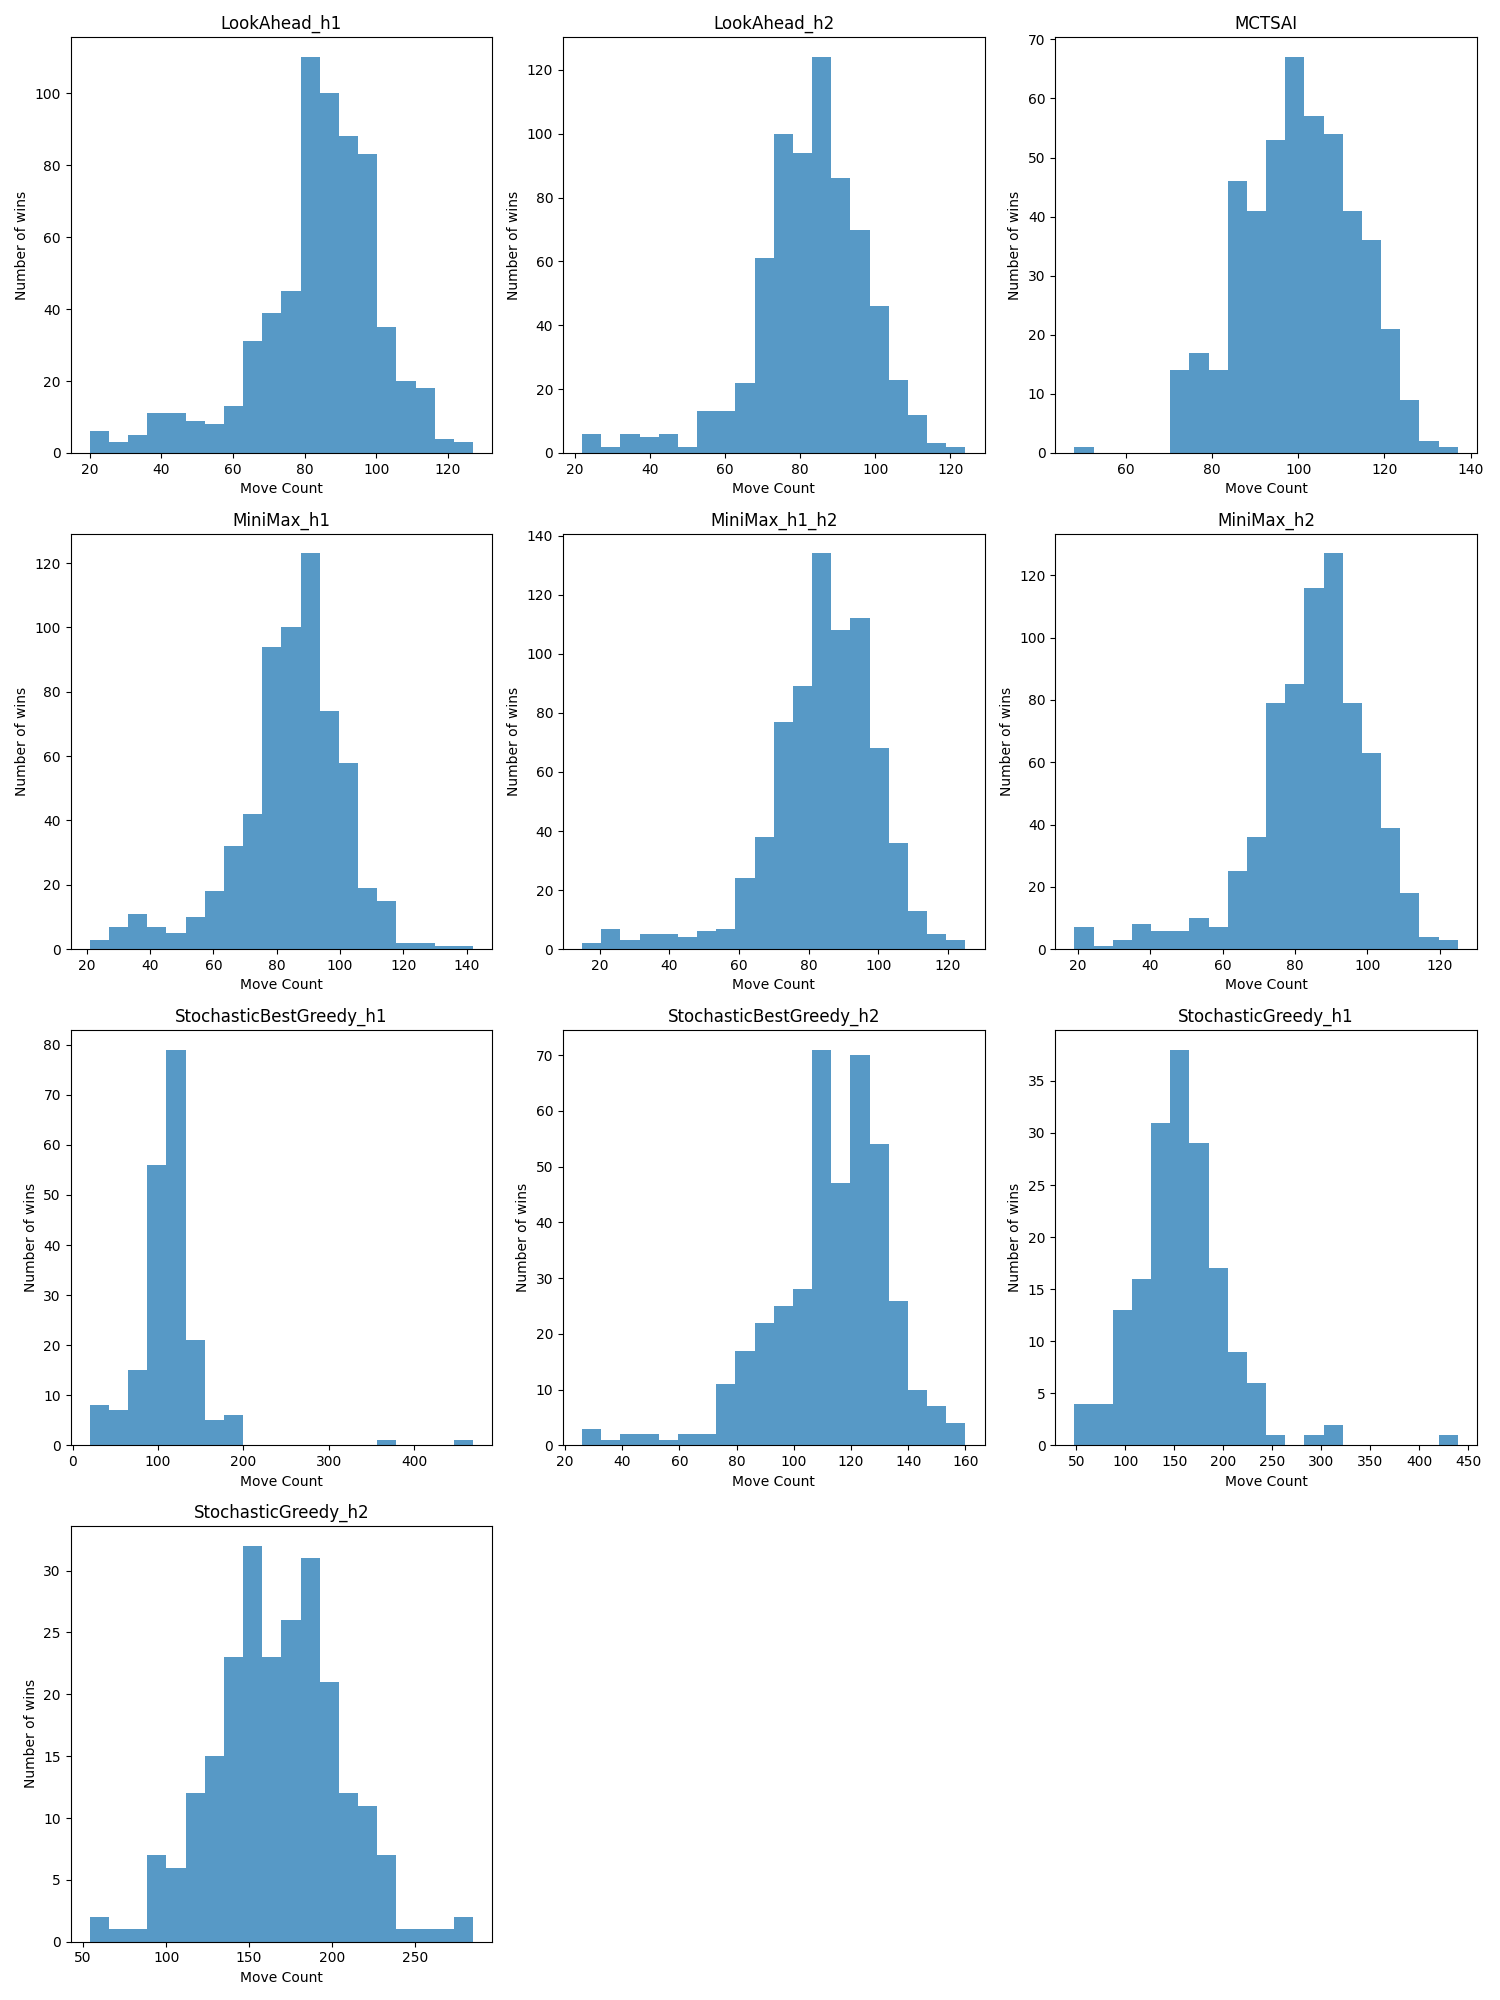
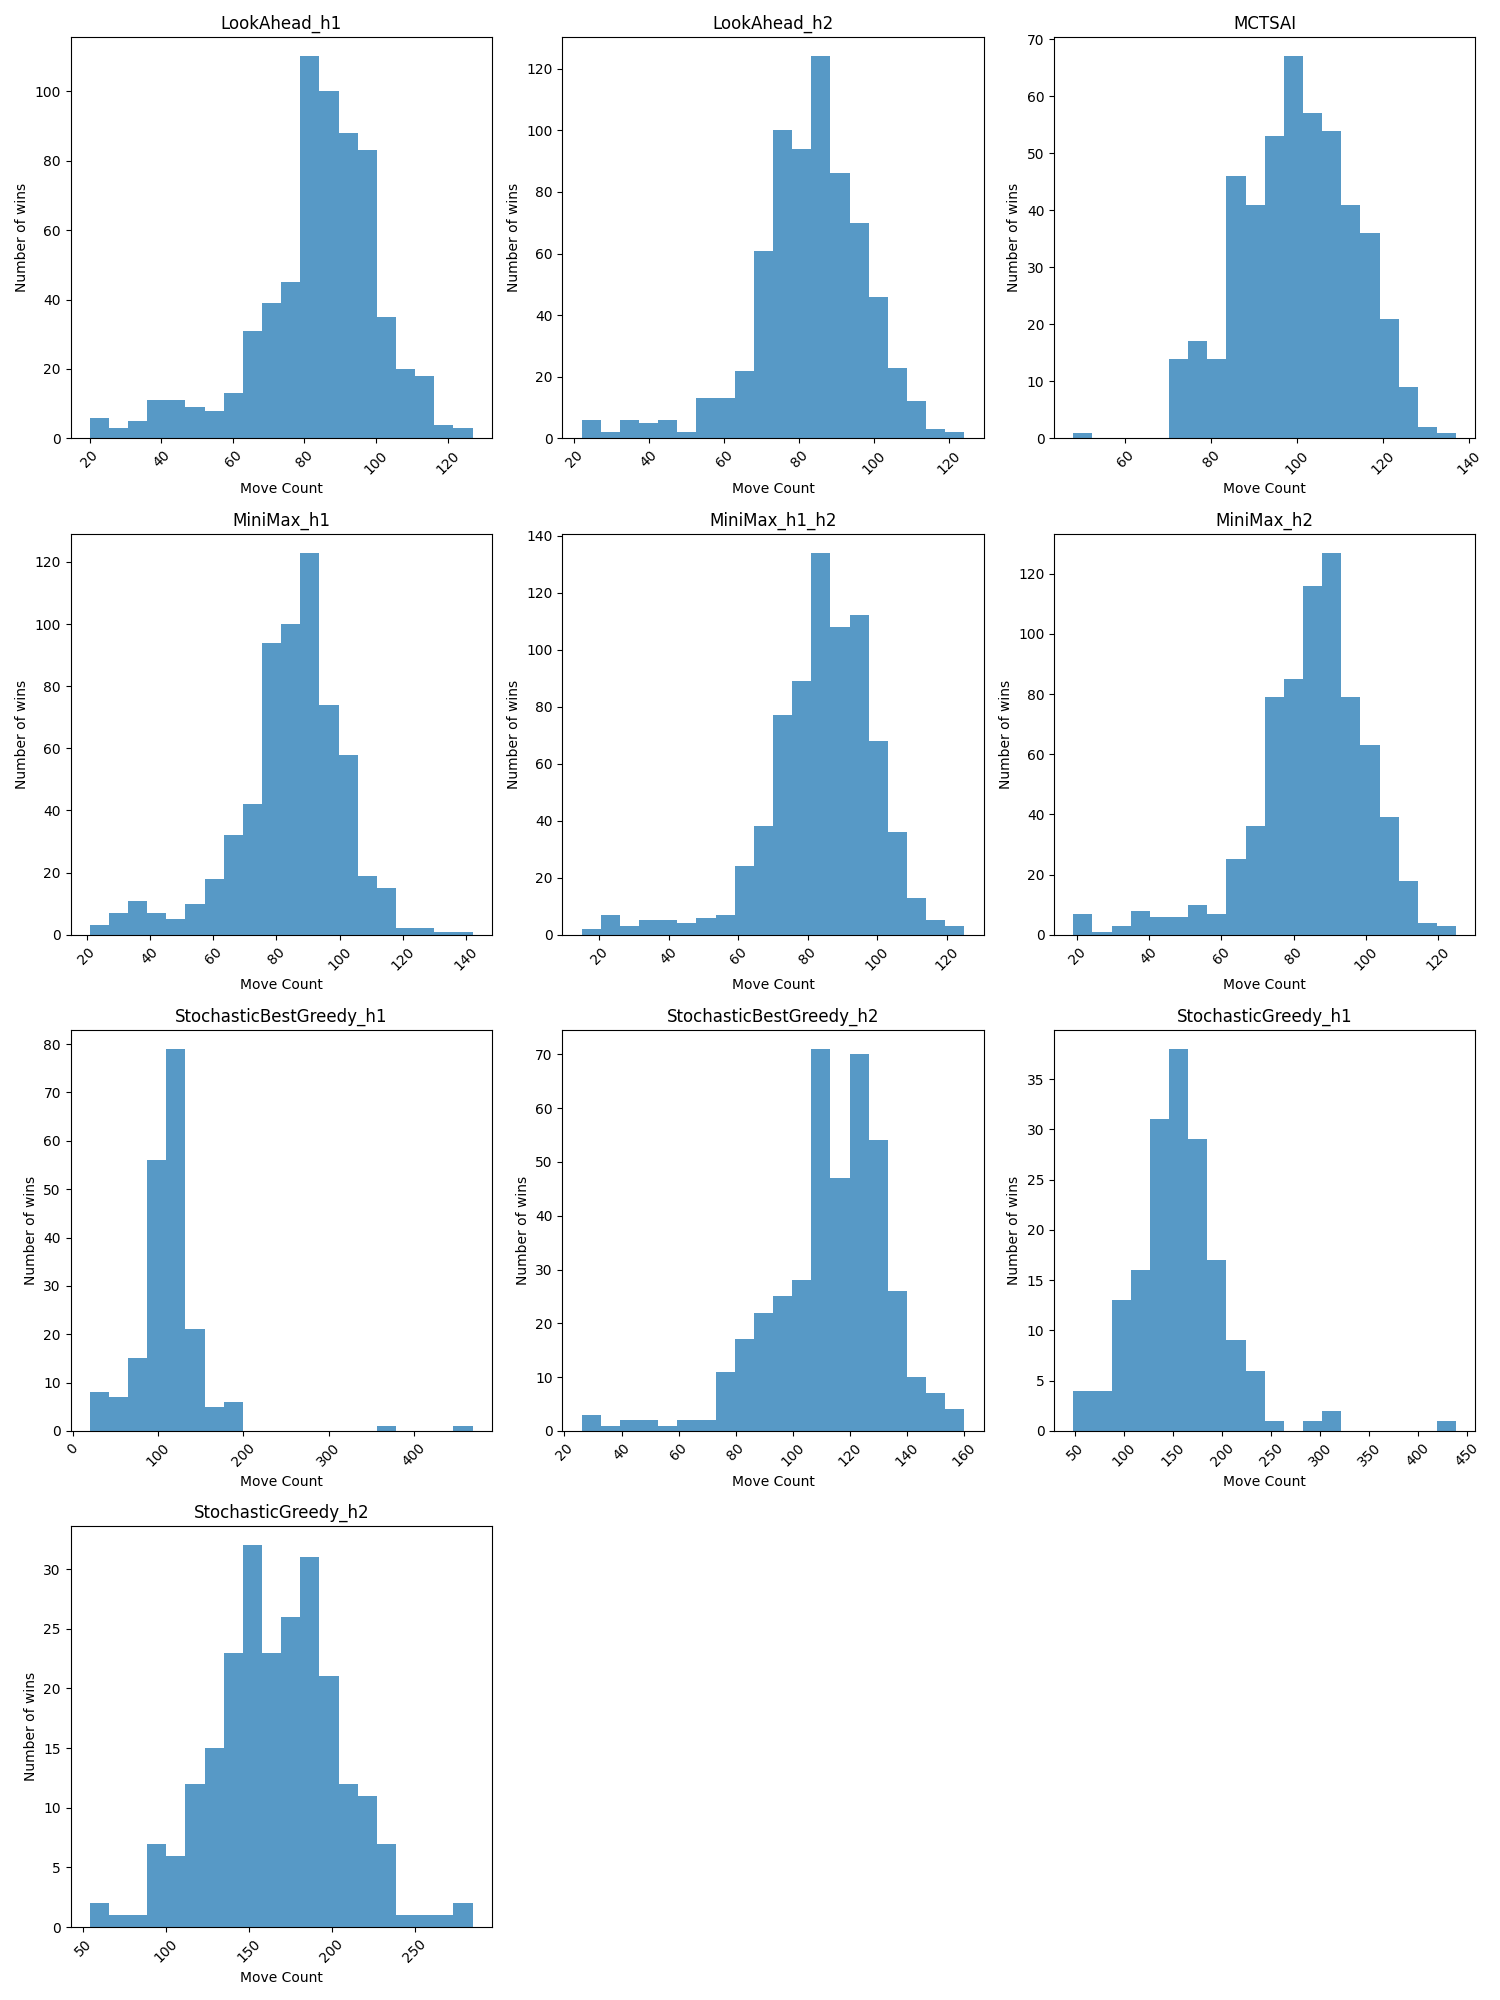
Change on analysis.py. New images.

diff --git a/src/analysis.py b/src/analysis.py
@@ -64,43 +64,60 @@ def plot_histograms(all_results, images_folder):
     plt.xlabel('Algorithm')
     plt.ylabel('Number of Wins')
     plt.title('Win Distribution Across All Files')
+    plt.xticks(rotation=45)  # Rotate x-axis labels
+    plt.tight_layout()       # Ensure everything fits
     plt.savefig(os.path.join(images_folder, 'win_distribution.png'))
     plt.show()
 
-    # Create a single figure with subplots for move counts (one subplot per algorithm)
-    num_algorithms = len(move_counts)
-    if num_algorithms == 0:
-        print("No valid move counts to plot.")
-        return
+    # Create figures for move counts with a maximum of 6 subplots per figure
+    algorithms = list(move_counts.items())
+    total_algorithms = len(algorithms)
+    chunk_size = 6
 
-    # Determine the number of rows and columns for the subplots
-    num_cols = int(num_algorithms**0.5)
-    num_rows = (num_algorithms + num_cols - 1) // num_cols
+    for chunk_index in range(0, total_algorithms, chunk_size):
+        chunk_algos = algorithms[chunk_index:chunk_index+chunk_size]
+        current_chunk_size = len(chunk_algos)
+        
+        # Determine the layout: best to have up to 3 columns per row
+        num_cols = min(3, current_chunk_size)
+        num_rows = (current_chunk_size + num_cols - 1) // num_cols
 
-    fig, axes = plt.subplots(
-        nrows=num_rows,
-        ncols=num_cols,
-        figsize=(5 * num_cols, 5 * num_rows),
-        squeeze=False
-    )
+        fig, axes = plt.subplots(
+            nrows=num_rows,
+            ncols=num_cols,
+            figsize=(5 * num_cols, 5 * num_rows),
+            squeeze=False
+        )
 
-    # Plot a histogram on each subplot
-    for idx, (algorithm, counts) in enumerate(move_counts.items()):
-        row = idx // num_cols
-        col = idx % num_cols
-        ax = axes[row, col]
-        ax.hist(counts, bins=20, alpha=0.75)
-        ax.set_xlabel('Move Count')
-        ax.set_ylabel('Number of wins')
-        ax.set_title(f'{algorithm}')
+        plt.subplots_adjust(wspace=0.4, hspace=0.4)
 
-    # Hide any unused subplots
-    for idx in range(num_algorithms, num_rows * num_cols):
-        fig.delaxes(axes.flatten()[idx])
+        # Rotate x-axis labels for each subplot
+        for ax_row in axes:
+            for ax in ax_row:
+                for label in ax.get_xticklabels():
+                    label.set_rotation(45)
 
-    plt.tight_layout()
-    plt.savefig(os.path.join(images_folder, 'move_count_distribution_subplots.png'))
-    plt.show()
+        # Plot a histogram on each subplot for the current chunk
+        for idx, (algorithm, counts) in enumerate(chunk_algos):
+            row = idx // num_cols
+            col = idx % num_cols
+            ax = axes[row, col]
+            ax.hist(counts, bins=20, alpha=0.75)
+            ax.set_xlabel('Move Count')
+            ax.set_ylabel('Number of wins')
+            ax.set_title(f'{algorithm}')
+
+        # Hide any unused subplots in this figure
+        total_subplots = num_rows * num_cols
+        for idx in range(current_chunk_size, total_subplots):
+            fig.delaxes(axes.flatten()[idx])
+
+        fig.tight_layout()
+        fig_filename = os.path.join(
+            images_folder, f'move_count_distribution_subplots_{(chunk_index // chunk_size) + 1}.png'
+        )
+        plt.savefig(fig_filename)
+        plt.show()
 
 def main():
     # Adjust this path to point to your "result" folder
